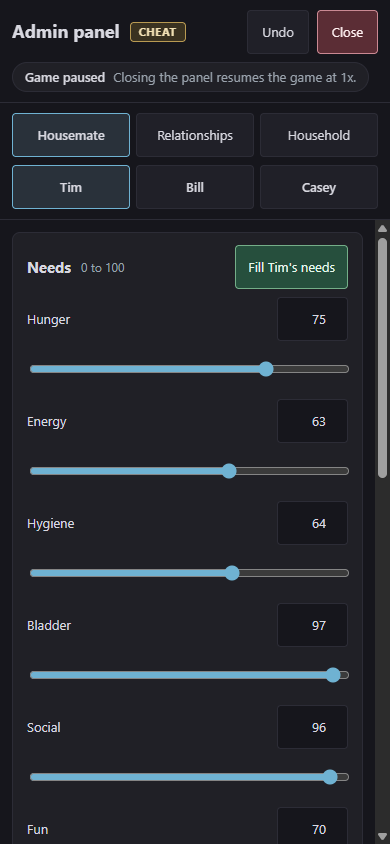
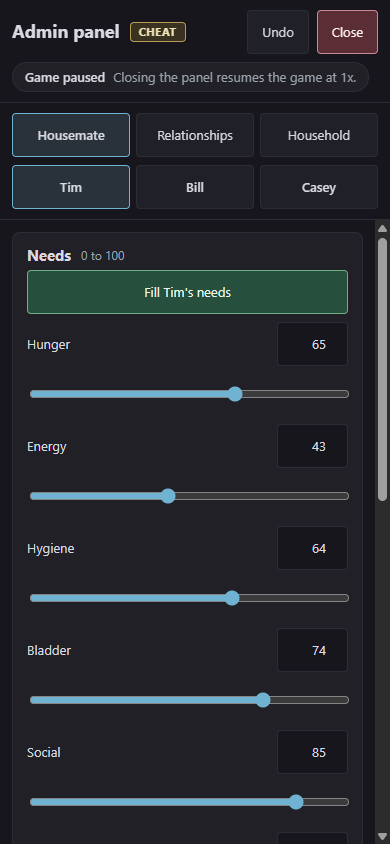
Recapture the phone admin pictures with titles at the card padding
5a0ecd7e1 puts heading buttons on their own line under the title on
touch screens and makes a closed folding card one 44 px tap target, so
every card title starts 13 px below its card's top edge. The three
phone pictures, their hashes and the snapshot method are updated, and
the findings line now records the resolved spacing.

Changed region(s): [[0.0615, 0.2773, 0.8923, 1.0], [0.9538, 0.5545, 1.0, 0.6161]]

diff --git a/docs/assets/review-evidence/admin-panel/findings.md b/docs/assets/review-evidence/admin-panel/findings.md
@@ -74,4 +74,4 @@ The same seven pictures were captured again from ab1a65d4c, which drops the rule
 
 All six admin guide pictures, their crops and the five stills above were captured again from 5dc36064b, which gives every card heading row a button's height so card titles line up; `layout-check.js` returned no findings, and every desktop card title measured 19 px below its card's top edge. The older stills in this folder also predate that heading fix.
 
-The three phone guide pictures were captured again from 2a93b6086, which gives every card title a 44 px line on touch-sized screens. Every card title now starts 25 px below its card's top edge, folded or open, but `layout-check.js` reports a top space larger than the side space on cards with no button beside the title (Life satisfaction, the two relationship cards, Funds and Time); that is open with the panel owner.
+The three phone guide pictures were captured again from 5a0ecd7e1, where on touch-sized screens titles sit at the card padding, heading buttons take their own line under the title, and a closed folding card is one 44 px tap target. Every card title now starts 13 px below its card's top edge, folded or open, and `layout-check.js` returned no findings on the captured states.
